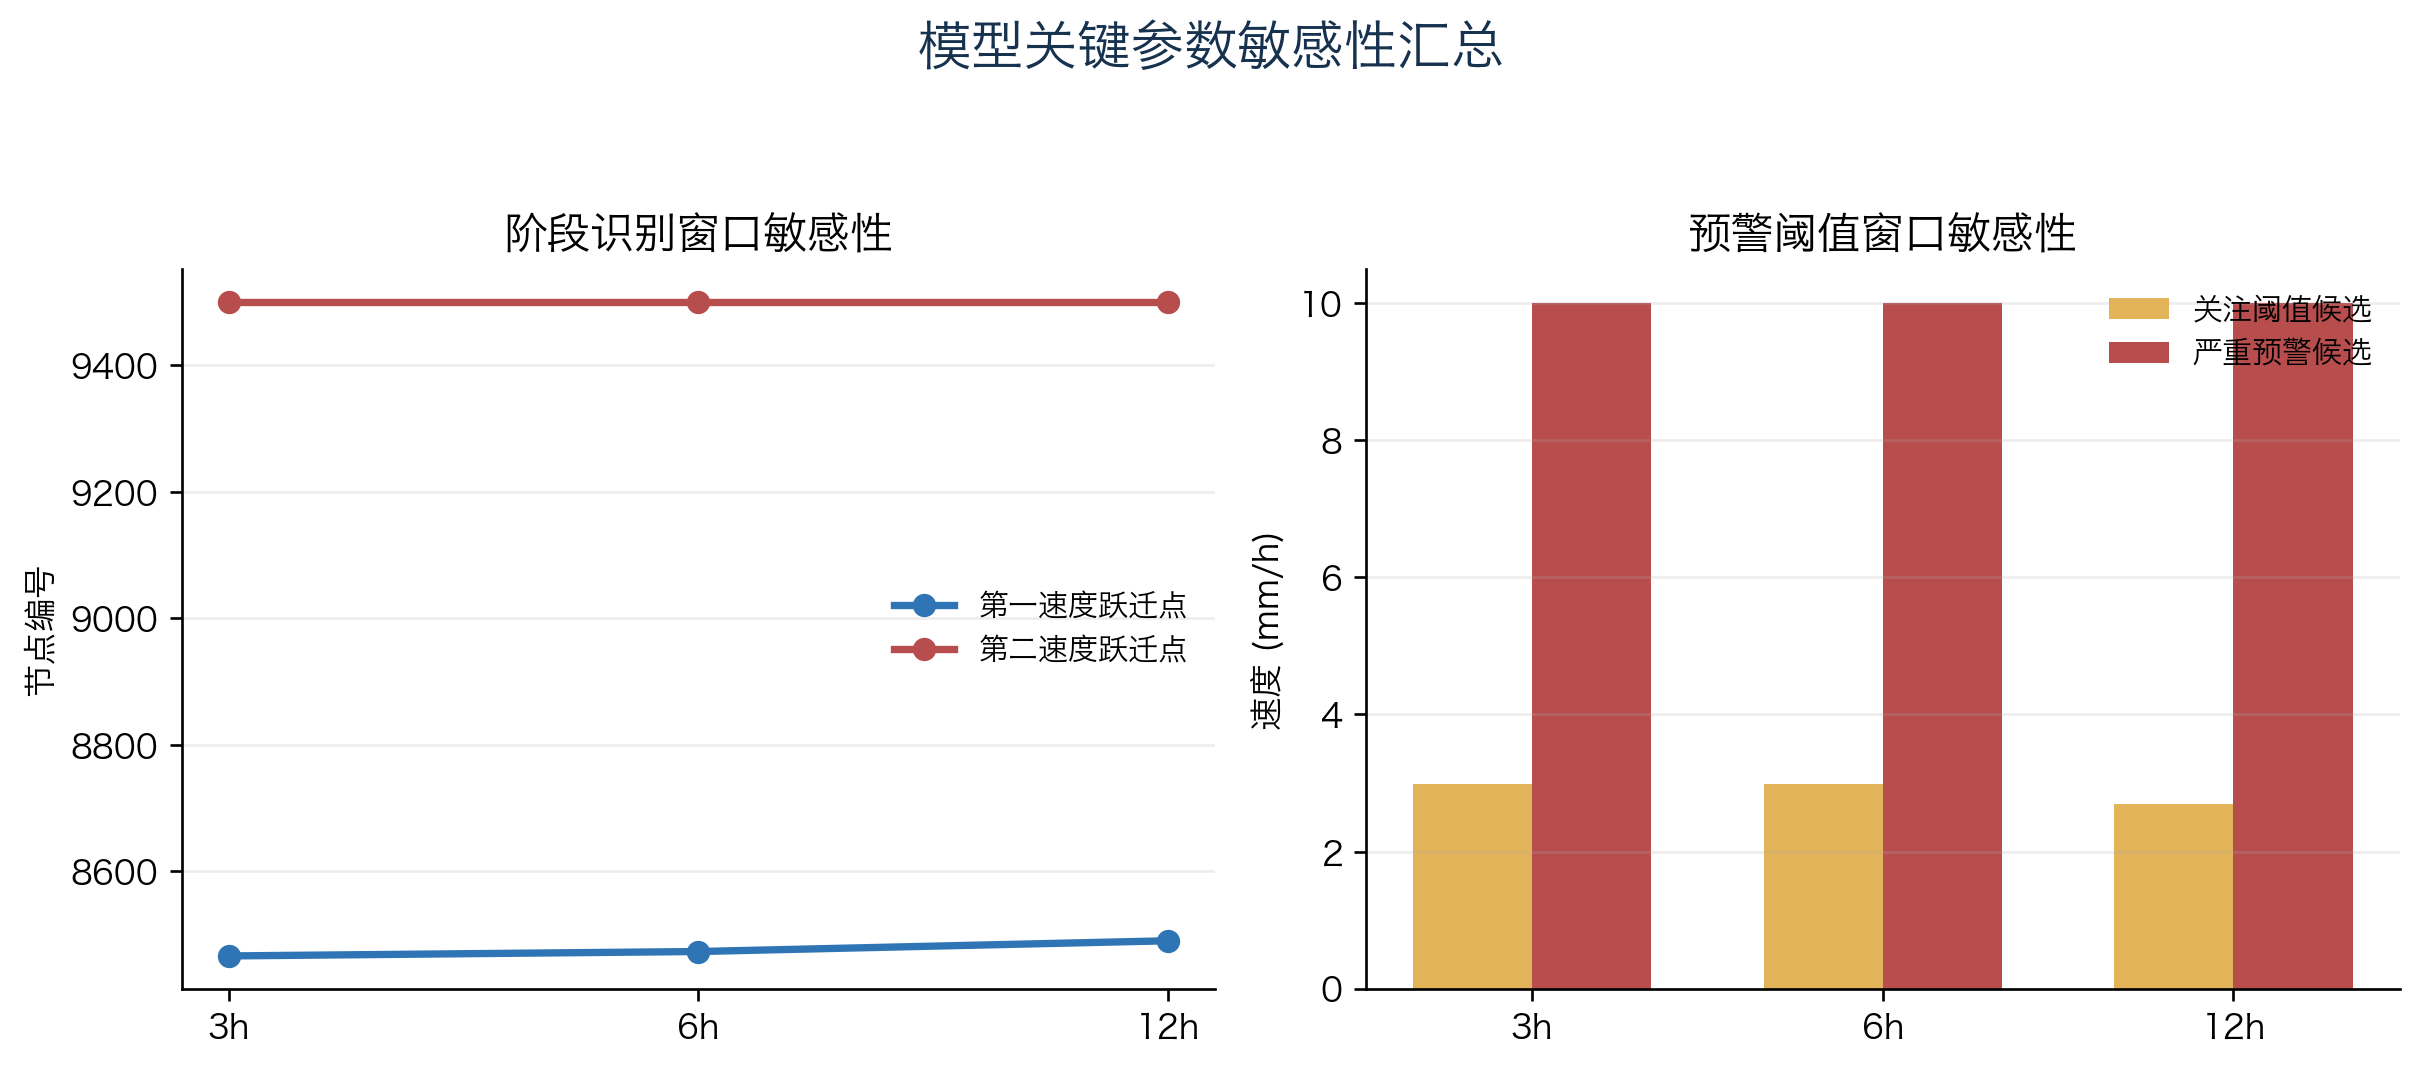
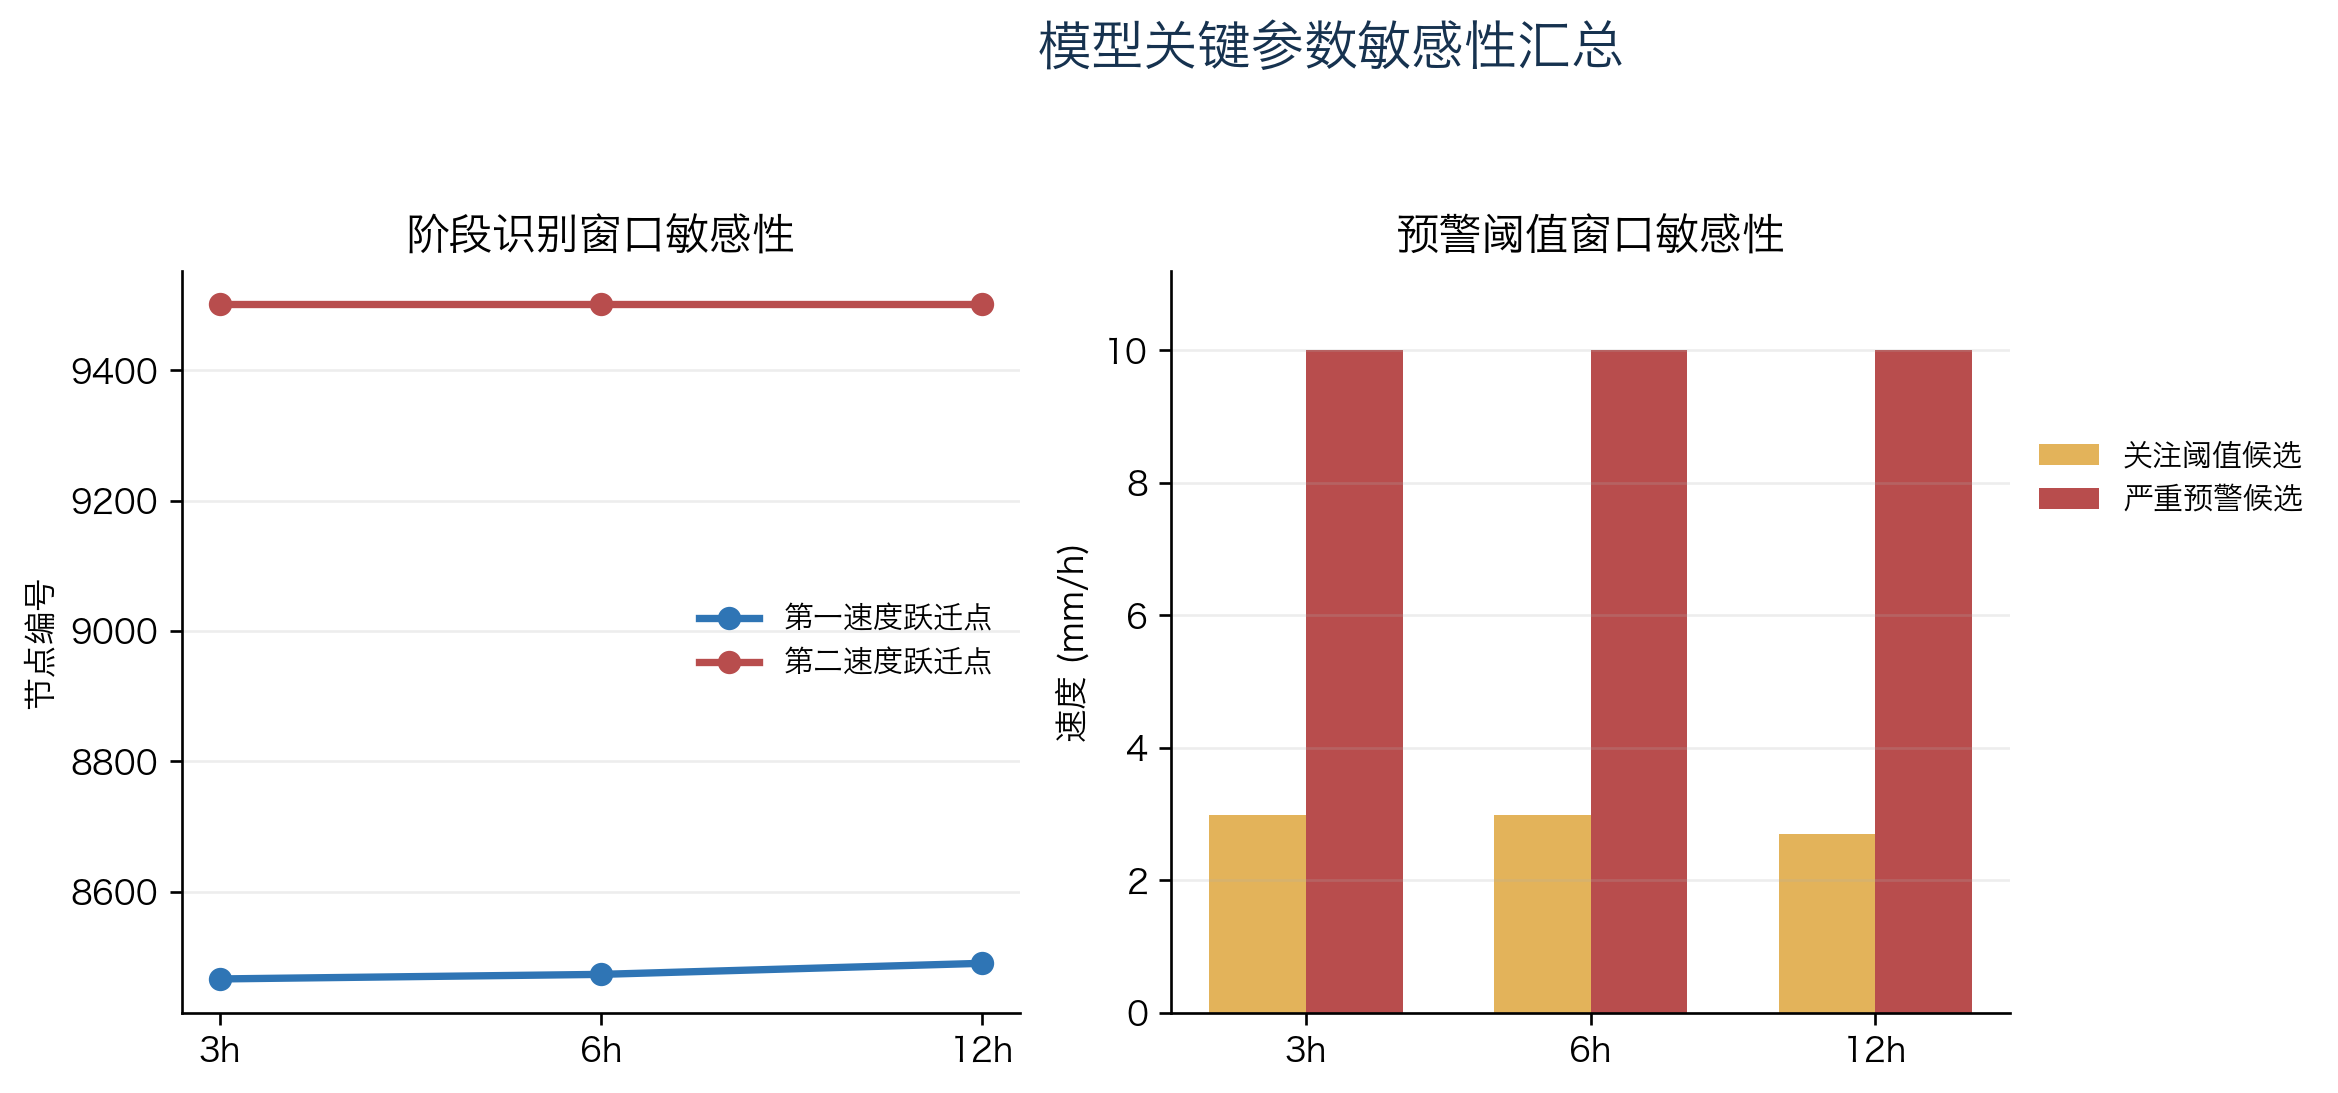
feat: 更新模型敏感性汇总图表，调整图例位置和图形尺寸；修正附录代码复现说明，优化代码样式

diff --git a/mainmatter/appendix.tex b/mainmatter/appendix.tex
@@ -1,13 +1,330 @@
-\chapter{附录：代码复现说明}
+\lstdefinestyle{appendixtxt}{
+    basicstyle=\footnotesize\ttfamily,
+    showstringspaces=false,
+    numbers=left,
+    numberstyle=\tiny\color{gray},
+    stepnumber=1,
+    tabsize=4,
+    breaklines=true,
+    breakatwhitespace=false,
+    frame=lines,
+    rulecolor=\color{black}
+}
 
-本文所有结果由统一脚本自动生成，代码目录为\texttt{code/}。基础求解脚本为\texttt{scripts/run\_all.py}，稳健性检验脚本为\texttt{scripts/run\_robustness\_audit.py}。运行方式为：
+\newcommand{\AppendixPyFile}[2]{%
+  \subsection{#1}
+  \lstinputlisting[style=appendixpy]{#2}
+}
 
-\begin{lstlisting}[style=appendixpy]
+\newcommand{\AppendixPyRangeFile}[4]{%
+  \subsection{#1}
+  \lstinputlisting[style=appendixpy, firstline=#3, lastline=#4]{#2}
+}
+
+\newcommand{\AppendixTxtFile}[2]{%
+  \subsection{#1}
+  \lstinputlisting[style=appendixtxt]{#2}
+}
+
+\chapter{代码复现与数据来源说明}
+
+本附录给出论文主要结果的复现方式、附件数据来源、输出文件对应关系以及核心代码清单。附录中的代码均通过\verb|\lstinputlisting|直接从\texttt{code/}目录引用，避免手工复制造成论文附录与实际运行代码不一致。
+
+\section{运行环境与复现命令}
+
+代码目录为\texttt{code/}，Python依赖由\texttt{uv}管理。进入\texttt{code/}目录后，完整复现顺序如下：
+
+\begin{lstlisting}[style=appendixtxt]
 uv run python scripts/run_all.py
-uv run python scripts/run_robustness_audit.py
+uv run python scripts/run_award_audit.py
 uv run python scripts/validate_outputs.py
 uv run python -m compileall src scripts
 uv run pytest
 \end{lstlisting}
 
-主要输出文件包括：\texttt{code/outputs/tables/}中的各题结果表，\texttt{code/outputs/figures/}中的主图，以及扩展检验目录中的模型对照、敏感性分析和置信区间。正文表格均可由这些CSV文件复现，图件均为中文标注，可直接纳入论文。
+其中，\texttt{scripts/run\_all.py}生成五问基础求解结果，\texttt{scripts/run\_award\_audit.py}生成模型对照、敏感性分析和预测区间等增强证据，\texttt{scripts/validate\_outputs.py}检查关键表格、图件和约束条件是否满足。本文编译后正文为29页，参考文献与附录不计入正文页数。
+
+\section{原始附件数据来源}
+
+所有模型输入均来自题目提供的五个附件，路径在\texttt{src/slope\_warning/config.py}中统一配置。表\ref{tab:appendix_data_sources}列出附件与问题的对应关系。
+
+\begin{table}[H]
+\centering
+\small
+\caption{附件数据与建模任务对应关系}
+\label{tab:appendix_data_sources}
+\begin{tabularx}{0.98\textwidth}{L{1.5cm}L{3.0cm}X}
+\toprule
+问题 & 读取对象 & 建模用途 \\
+\midrule
+问题一 & 附件1：两组位移时序数据 & A、B两传感器同步位移校准，输出题目表1.1的5个校正值。 \\
+问题二 & 附件2：位移时序数据 & 识别三阶段转换节点，建立分阶段位移模型并计算平均速度。 \\
+问题三 & 附件3：训练集与实验集 & 训练集缺失补齐、异常识别和贡献排序；实验集表面位移估计。 \\
+问题四 & 附件4：训练集与实验集 & 训练集阶段归一化残差建模；实验集指定时刻表面位移预测。 \\
+问题五 & 附件5：监测数据 & 枚举六选五变量组合，建立速度分级预警机制。 \\
+\bottomrule
+\end{tabularx}
+\end{table}
+
+需要特别说明的是，附件4和附件5中爆破点距离、单段最大药量的空值表示该时刻无爆破事件，代码在构造爆破冲击特征时将其解释为零强度事件；附件4实验集的表面位移空值为题目要求预测的目标值，不作为普通缺失值补齐。全文没有使用外部生成数据替代附件数据。
+
+\section{主要输出文件}
+
+基础求解结果写入\path{code/outputs/tables/}和\path{code/outputs/models/}；增强审查结果写入\path{code/outputs/award/}；正文图件写入\path{code/outputs/figures/}。关键输出见表\ref{tab:appendix_outputs}。
+
+\begin{table}[H]
+\centering
+\small
+\caption{正文关键表图与输出文件对应关系}
+\label{tab:appendix_outputs}
+\begin{tabularx}{0.98\textwidth}{L{2.1cm}L{5.4cm}X}
+\toprule
+问题 & 关键输出文件 & 对应正文内容 \\
+\midrule
+问题一 & \path{q1_table_1_1.csv}，\path{q1_model_comparison.csv}，\path{q1_bootstrap_correction_ci.csv} & 校准模型对照、5个待校正值、bootstrap置信区间。 \\
+问题二 & \path{q2_final_transition_decision.csv}，\path{q2_final_stage_models.csv}，\path{q2_transition_candidate_comparison.csv} & 复合证据主节点、候选节点解释、分阶段位移模型。 \\
+问题三 & \path{q3_table_3_1_single_variable_anomalies.csv}，\path{q3_table_3_2_common_anomalies.csv}，\path{q3_experiment_surface_predictions.csv} & 异常点统计、共同异常清单、实验集表面位移估计。 \\
+问题四 & \path{q4_table_4_1_predictions.csv}，\path{q4_table_4_1_prediction_intervals.csv}，\path{q4_ablation_comparison.csv} & 指定时刻预测值、95\%预测区间、模型消融对照。 \\
+问题五 & \path{q5_variable_combination_cv.csv}，\path{q5_warning_thresholds.csv}，\path{q5_warning_events.csv} & 六选五组合评价、三级阈值、预警事件时间线。 \\
+\bottomrule
+\end{tabularx}
+\end{table}
+
+问题二同时保留了速度水平跃迁的基线输出\path{q2_transition_nodes.csv}，用于与复合证据节点对照。正文采用\path{outputs/award/}中的复合证据主节点：第8108号和第9501号；速度跃迁点第8473号作为第一阶段转换的辅助证据，而非正文最终阶段起点。
+
+\chapter{关键结果附表}
+
+本章摘录正文未完全展开但对复核较重要的CSV结果。完整文件仍以\path{code/outputs/}目录中的CSV为准；附表仅保留题目交付、模型选择和预警机制复核所需的关键字段，避免把数千行实验集预测全部堆入正文。
+
+\section{问题二复合证据节点输出}
+
+表\ref{tab:appendix_q2_decision}摘自\path{outputs/award/q2_final_transition_decision.csv}，用于明确正文采用的主阶段节点。表\ref{tab:appendix_q2_candidates}摘自\path{outputs/award/q2_transition_candidate_comparison.csv}，用于说明主节点不是单一算法输出，而是由位移趋势、持续加速度和速度跃迁共同给出。
+
+\begin{table}[H]
+\centering
+\small
+\caption{问题二复合证据最终阶段节点}
+\label{tab:appendix_q2_decision}
+\begin{tabularx}{0.96\textwidth}{L{2.8cm}L{1.5cm}L{3.1cm}L{2.1cm}L{2.1cm}}
+\toprule
+转换 & 主节点 & 时间 & 位移/mm & 6 h速度/mm/h \\
+\midrule
+缓慢$\to$加速 & 8108 & 2024-06-29 07:10 & 353.923 & 0.636 \\
+加速$\to$快速 & 9501 & 2024-07-08 23:20 & 785.711 & 2.781 \\
+\bottomrule
+\end{tabularx}
+\end{table}
+
+\begin{table}[H]
+\centering
+\footnotesize
+\caption{问题二复合证据候选节点}
+\label{tab:appendix_q2_candidates}
+\begin{tabularx}{0.98\textwidth}{L{2.1cm}L{2.5cm}L{1.3cm}L{1.2cm}L{2.7cm}X}
+\toprule
+转换 & 证据类型 & 编号 & 权重 & 时间 & 解释 \\
+\midrule
+缓慢$\to$加速 & 位移趋势变化 & 5290 & 0.20 & 06-09 17:30 & 分段位移拟合误差最优，反映累计趋势开始偏离。 \\
+缓慢$\to$加速 & 持续加速度起点 & 8108 & 0.35 & 06-29 07:10 & 6 h速度连续12 h高于基线阈值，具有提前预警意义。 \\
+缓慢$\to$加速 & 速度水平跃迁 & 8473 & 0.45 & 07-01 20:00 & 速度水平分段最优，反映状态显著跃迁。 \\
+加速$\to$快速 & 位移趋势变化 & 8871 & 0.25 & 07-04 14:20 & 分段位移拟合误差最优。 \\
+加速$\to$快速 & 快速速度持续 & 9567 & 0.25 & 07-09 10:20 & 速度越过加速段与快速段中位水平并持续。 \\
+加速$\to$快速 & 速度水平跃迁 & 9501 & 0.50 & 07-08 23:20 & 速度水平分段最优。 \\
+\bottomrule
+\end{tabularx}
+\end{table}
+
+\section{问题三实验集表面位移估计节选}
+
+附件3实验集共有5001行预测结果，完整输出见\path{outputs/tables/q3_experiment_surface_predictions.csv}。表\ref{tab:appendix_q3_exp_pred}摘录前20个编号，用于说明实验集表面位移估计结果已经由脚本逐行生成，而非只给出散点图。
+
+\begin{table}[H]
+\centering
+\footnotesize
+\caption{问题三实验集表面位移预测结果节选}
+\label{tab:appendix_q3_exp_pred}
+\begingroup
+\setlength{\tabcolsep}{3pt}
+\begin{tabular}{@{}L{0.9cm}L{1.55cm}L{0.9cm}L{1.55cm}L{0.9cm}L{1.55cm}L{0.9cm}L{1.55cm}@{}}
+\toprule
+编号 & 预测值/mm & 编号 & 预测值/mm & 编号 & 预测值/mm & 编号 & 预测值/mm \\
+\midrule
+1 & 82.441 & 6 & 79.733 & 11 & 116.909 & 16 & 81.672 \\
+2 & 87.621 & 7 & 81.508 & 12 & 88.599 & 17 & 101.727 \\
+3 & 84.908 & 8 & 81.508 & 13 & 89.010 & 18 & 103.902 \\
+4 & 86.046 & 9 & 81.092 & 14 & 88.158 & 19 & 90.277 \\
+5 & 82.302 & 10 & 81.156 & 15 & 89.576 & 20 & 91.829 \\
+\bottomrule
+\end{tabular}
+\endgroup
+\end{table}
+
+\section{问题四指定时刻预测区间}
+
+表\ref{tab:appendix_q4_intervals}摘自\path{outputs/award/q4_table_4_1_prediction_intervals.csv}。正文表4.1给出同一组结果，本附表保留实验集行号和区间半宽，便于复核指定时刻是否准确命中附件4实验集。
+
+\begin{table}[H]
+\centering
+\footnotesize
+\caption{问题四指定时刻预测值、区间与实验集行号}
+\label{tab:appendix_q4_intervals}
+\begingroup
+\setlength{\tabcolsep}{3pt}
+\begin{tabularx}{0.98\textwidth}{@{}L{2.8cm}L{1.2cm}L{0.9cm}L{1.7cm}L{2.8cm}L{1.4cm}@{}}
+\toprule
+时间点 & 行号 & 阶段 & 预测值/mm & 95\%预测区间/mm & 半宽/mm \\
+\midrule
[phone redacted]:00 & 1125 & 1 & 5.163 & [4.531,\;5.795] & 0.632 \\
[phone redacted]:00 & 3693 & 2 & 33.594 & [24.085,\;43.102] & 9.509 \\
[phone redacted]:00 & 4437 & 2 & 61.934 & [52.425,\;71.443] & 9.509 \\
[phone redacted]:00 & 4785 & 3 & 384.971 & [368.908,\;401.034] & 16.063 \\
[phone redacted]:40 & 4807 & 3 & 385.482 & [369.419,\;401.546] & 16.063 \\
+\bottomrule
+\end{tabularx}
+\endgroup
+\end{table}
+
+\section{问题五五变量组合完整排序}
+
+正文表7.1展示了主要组合。为满足“枚举全部六选五变量组合”的复核需要，表\ref{tab:appendix_q5_combo_full}列出完整六组结果，数据摘自\path{outputs/tables/q5_variable_combination_cv.csv}和\path{outputs/award/q5_consensus_conflict_analysis.csv}。保留变量列使用题中变量名称，综合得分越小表示排序越优。
+
+\begin{table}[H]
+\centering
+\scriptsize
+\caption{问题五六种五变量组合完整排序}
+\label{tab:appendix_q5_combo_full}
+\begingroup
+\setlength{\tabcolsep}{3pt}
+\begin{tabularx}{0.99\textwidth}{@{}L{5.0cm}L{1.6cm}L{1.8cm}L{2.0cm}L{1.3cm}@{}}
+\toprule
+保留变量 & 剔除变量 & GBDT位移RMSE/mm & ElasticNet位移RMSE/mm & 综合得分 \\
+\midrule
+降雨量、孔隙水压力、微震事件数、爆破点距离、单段最大药量 & 干湿入渗系数 & 21.899 & 180.655 & 4.45 \\
+降雨量、孔隙水压力、微震事件数、干湿入渗系数、爆破点距离 & 单段最大药量 & 27.399 & 155.954 & 5.35 \\
+降雨量、孔隙水压力、微震事件数、干湿入渗系数、单段最大药量 & 爆破点距离 & 29.951 & 155.952 & 5.95 \\
+孔隙水压力、微震事件数、干湿入渗系数、爆破点距离、单段最大药量 & 降雨量 & 25.714 & 181.388 & 7.05 \\
+降雨量、微震事件数、干湿入渗系数、爆破点距离、单段最大药量 & 孔隙水压力 & 94.221 & 101.589 & 7.20 \\
+降雨量、孔隙水压力、干湿入渗系数、爆破点距离、单段最大药量 & 微震事件数 & 215.137 & 247.018 & 12.00 \\
+\bottomrule
+\end{tabularx}
+\endgroup
+\end{table}
+
+由表\ref{tab:appendix_q5_combo_full}可见，剔除干湿入渗系数的组合在GBDT位移积分误差上优势明显，虽然ElasticNet对孔隙水压力组合更敏感，但综合非线性拟合和工程解释后，最终选择仍与正文一致。
+
+\section{问题五预警事件汇总}
+
+表\ref{tab:appendix_q5_warning_summary}摘自\path{outputs/award/q5_warning_event_summary.csv}。完整事件时间段见\path{outputs/tables/q5_warning_events.csv}。
+
+\begin{table}[H]
+\centering
+\small
+\caption{问题五三级预警事件汇总}
+\label{tab:appendix_q5_warning_summary}
+\begingroup
+\setlength{\tabcolsep}{3pt}
+\begin{tabularx}{0.96\textwidth}{@{}L{2.0cm}L{1.3cm}L{2.1cm}L{2.1cm}L{3.0cm}@{}}
+\toprule
+等级 & 事件数 & 总持续时间/h & 最大速度/mm/h & 首次触发时间 \\
+\midrule
+关注 & 7 & 322.167 & 10.115 & 2024-01-17 04:00 \\
+预警 & 2 & 184.167 & 10.115 & 2024-02-01 08:10 \\
+严重预警 & 9 & 110.500 & 10.115 & 2024-02-01 12:20 \\
+\bottomrule
+\end{tabularx}
+\endgroup
+\end{table}
+
+\chapter{核心代码摘录与完整代码位置}
+
+本章只列出与模型复现和关键算法直接相关的核心代码片段。完整工程代码不在附录中逐文件展开，均保存在\path{code/}目录；基础结果由\path{scripts/run_all.py}生成，增强审查由\path{scripts/run_award_audit.py}生成，输出一致性由\path{scripts/validate_outputs.py}检查。
+
+\section{复现入口与输出校验}
+
+五个问题由统一入口顺序运行，所有主结果写入\path{outputs/tables/}、\path{outputs/models/}和\path{outputs/figures/}。输出校验脚本检查关键CSV、图件、无缺失、非负约束、问题四单调性以及问题五阈值递增性。
+
+\AppendixPyRangeFile{五问统一求解入口}{code/scripts/run_all.py}{18}{32}
+\AppendixPyRangeFile{关键输出一致性校验}{code/scripts/validate_outputs.py}{72}{116}
+
+\section{问题一：Huber稳健仿射校准}
+
+问题一的核心在于用IRLS求解Huber稳健仿射模型，降低异常同步观测点对传感器校准的影响。
+
+\AppendixPyRangeFile{Huber-IRLS校准函数}{code/src/slope_warning/questions/q1_calibration.py}{14}{39}
+
+\section{问题二：速度主导阶段识别}
+
+问题二以Hampel清洗后的6 h滚动中位速度作为主证据，再用两断点分段和位移分段拟合交叉验证阶段节点。
+
+\AppendixPyRangeFile{速度清洗、两断点识别与阶段拟合}{code/src/slope_warning/questions/q2_segmentation.py}{25}{38}
+\AppendixPyRangeFile{阶段转换判别准则输出}{code/src/slope_warning/questions/q2_segmentation.py}{71}{89}
+
+\section{问题三：连续状态量与稀疏驱动量分治}
+
+问题三将孔压、深部位移、表面位移作为连续状态量补齐和诊断，将降雨量、微震事件数作为稀疏驱动量保留真实峰值，再用分组置换重要性解释变量贡献。
+
+\AppendixPyRangeFile{多源变量预处理与异常标记}{code/src/slope_warning/questions/q3_fusion.py}{55}{108}
+\AppendixPyRangeFile{分组置换重要性计算}{code/src/slope_warning/questions/q3_fusion.py}{139}{153}
+
+\section{问题四：阶段归一化基线与残差收缩}
+
+问题四先对每个阶段建立单调PCHIP基线，再用扰动残差模型修正局部偏差，并通过时间块交叉验证选择残差收缩系数，最后进行单调投影。
+
+\AppendixPyRangeFile{阶段归一化时间与PCHIP基线}{code/src/slope_warning/questions/q4_prediction.py}{31}{78}
+\AppendixPyRangeFile{单调投影和残差收缩交叉验证}{code/src/slope_warning/questions/q4_prediction.py}{122}{177}
+
+\section{问题五：变量组合筛选与三级预警}
+
+问题五用全部六选五组合进行模型比较，并在速度序列上叠加持续时间条件形成三级预警事件。
+
+\AppendixPyRangeFile{五变量组合时间块验证}{code/src/slope_warning/questions/q5_warning.py}{53}{79}
+\AppendixPyRangeFile{三级阈值与持续事件提取}{code/src/slope_warning/questions/q5_warning.py}{81}{173}
+
+\section{完整代码文件索引}
+
+为避免附录无限展开，增强审查、图件生成和测试代码仍以文件索引方式给出：\path{code/src/slope_warning/award/}保存模型对照、bootstrap、敏感性、预测区间和逆速度预警等增强审查；\path{code/scripts/make_paper_diagrams.py}保存论文图件生成脚本；\path{code/tests/}保存单元测试。上述文件均可由附录A中的复现命令直接调用。
+
+\chapter{分问题主求解脚本}
+
+本章列出问题一至问题五的主求解脚本。与前一章的核心片段不同，本章保留完整执行逻辑，便于复核每一问从附件读取、模型求解到CSV和图件输出的全过程。
+
+\section{问题一：稳健传感器校准}
+
+\AppendixPyFile{问题一主脚本 \texttt{q1\_calibration.py}}{code/src/slope_warning/questions/q1_calibration.py}
+
+\section{问题二：速度主导阶段识别}
+
+\AppendixPyFile{问题二主脚本 \texttt{q2\_segmentation.py}}{code/src/slope_warning/questions/q2_segmentation.py}
+
+\section{问题三：多源补齐、异常识别与贡献分析}
+
+\AppendixPyFile{问题三主脚本 \texttt{q3\_fusion.py}}{code/src/slope_warning/questions/q3_fusion.py}
+
+\section{问题四：阶段归一化残差预测}
+
+\AppendixPyFile{问题四主脚本 \texttt{q4\_prediction.py}}{code/src/slope_warning/questions/q4_prediction.py}
+
+\section{问题五：变量筛选与速度预警}
+
+\AppendixPyFile{问题五主脚本 \texttt{q5\_warning.py}}{code/src/slope_warning/questions/q5_warning.py}
+
+\chapter{公共预处理、分段与特征模块}
+
+本章列出被多个问题复用的公共模块。保留这些模块可以说明全文并非每问各自临时处理数据，而是在统一时间索引、统一滚动窗口、统一评价指标和统一特征构造框架下完成建模。
+
+\section{预处理模块}
+
+\AppendixPyFile{缺失补齐、Hampel规则与滚动窗口 \texttt{preprocessing.py}}{code/src/slope_warning/common/preprocessing.py}
+
+\section{分段与阶段拟合模块}
+
+\AppendixPyFile{两断点搜索与分阶段拟合 \texttt{segmentation.py}}{code/src/slope_warning/common/segmentation.py}
+
+\section{特征构造模块}
+
+\AppendixPyFile{窗口特征、扰动特征与六选五组合 \texttt{features.py}}{code/src/slope_warning/common/features.py}
+
+\section{指标与诊断模块}
+
+\AppendixPyFile{评价指标与时间块划分 \texttt{metrics.py}}{code/src/slope_warning/common/metrics.py}
+\AppendixPyFile{单调性与残差诊断 \texttt{diagnostics.py}}{code/src/slope_warning/common/diagnostics.py}

diff --git a/code/scripts/make_paper_diagrams.py b/code/scripts/make_paper_diagrams.py
@@ -343,7 +343,7 @@ def figure_model_sensitivity_summary():
         focus.append(first_float(stage1, "q90"))
         severe.append(first_float(stage3, "q50", "q75", "q90"))
 
-    fig, axes = plt.subplots(1, 2, figsize=(10.2, 4.5))
+    fig, axes = plt.subplots(1, 2, figsize=(11.2, 4.6))
     fig.patch.set_facecolor("white")
     ax = axes[0]
     x = np.arange(len(windows))
@@ -354,7 +354,7 @@ def figure_model_sensitivity_summary():
     ax.set_ylabel("节点编号")
     ax.set_title("阶段识别窗口敏感性", fontsize=13, weight="bold")
     ax.grid(axis="y", alpha=0.22)
-    ax.legend(frameon=False, fontsize=9)
+    ax.legend(frameon=False, fontsize=9, loc="center right")
     ax.spines[["top", "right"]].set_visible(False)
 
     ax = axes[1]
@@ -366,12 +366,13 @@ def figure_model_sensitivity_summary():
     ax.set_xticklabels(q5_windows)
     ax.set_ylabel("速度 (mm/h)")
     ax.set_title("预警阈值窗口敏感性", fontsize=13, weight="bold")
+    ax.set_ylim(0, max(severe) * 1.12)
     ax.grid(axis="y", alpha=0.22)
-    ax.legend(frameon=False, fontsize=9)
+    ax.legend(frameon=False, fontsize=9, loc="center left", bbox_to_anchor=(1.02, 0.72), borderaxespad=0.0)
     ax.spines[["top", "right"]].set_visible(False)
 
     fig.suptitle("模型关键参数敏感性汇总", fontsize=16, weight="bold", color="#16324F")
-    fig.tight_layout(rect=(0, 0, 1, 0.92))
+    fig.tight_layout(rect=(0, 0, 0.88, 0.92))
     save(fig, "model_sensitivity_summary.png")
 
 

diff --git a/mainmatter/chapter8.tex b/mainmatter/chapter8.tex
@@ -38,7 +38,7 @@
 \footnotesize
 \caption{关键建模选择的合理性说明}
 \label{tab:model_rationality}
-\begin{tabularx}{0.98\textwidth}{X X}
+\begin{tabularx}{0.92\textwidth}{L{2.0cm}X}
 \toprule
 建模环节 & 合理性说明 \\
 \midrule

diff --git a/thusetup.tex b/thusetup.tex
@@ -122,7 +122,7 @@
     stepnumber=1,
     tabsize=4,
     breaklines=true,
-    breakatwhitespace=true,
+    breakatwhitespace=false,
     frame=lines,
     rulecolor=\color{black}
 }